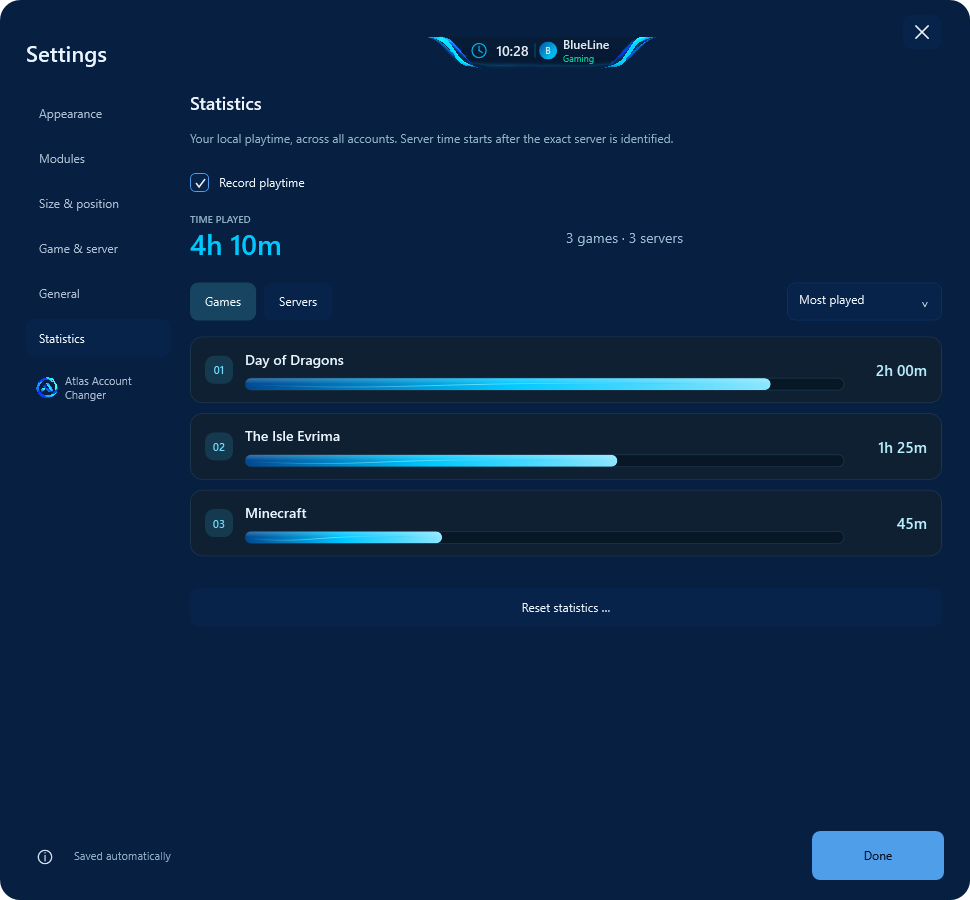
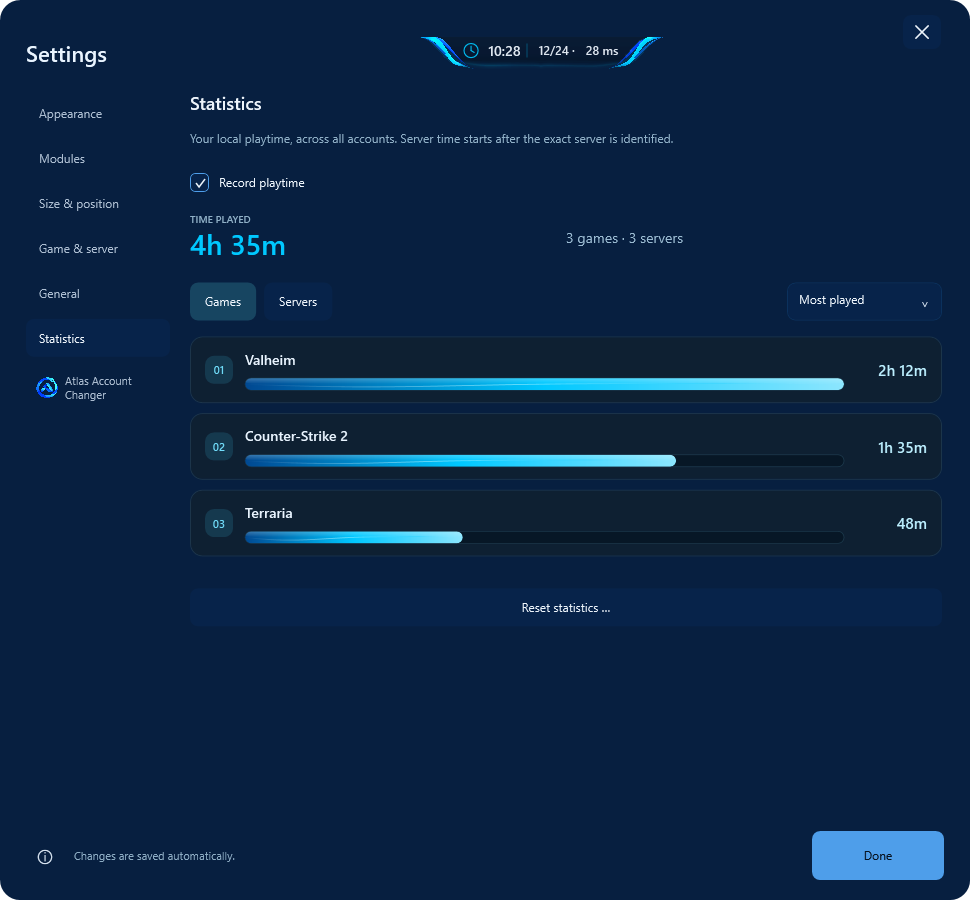
Refresh example games and introduce the ATLAS family with feedback links

diff --git a/README.md b/README.md
@@ -42,11 +42,11 @@ Module changes save automatically. Notch also handles official updates, keeping 
 **[Get ATLAS Notch →](https://bluelinede-shop.fourthwall.com/en-eur#top)**
 
 
-## Optional: Atlas Account Changer
+## Explore the ATLAS family
 
-Want to switch Steam accounts from your Notch? Add **[Atlas Account Changer →](https://github.com/BluelineDE/atlas-account-changer)**, a separate optional ATLAS app.
+There's more to discover in the ATLAS family. Meet **[ATLAS Account Switcher →](https://github.com/BluelineDE/atlas-account-changer)**, a companion app for organising your Steam accounts into groups and switching between them.
 
-With a compatible AAC Bridge v4, Notch shows your shared account groups, display names and avatars. Choose an account and see the switch progress beside it; AAC performs and confirms the switch. Login names and credentials stay with AAC. You can also use Notch independently.
+Use the apps on their own, or connect them with a compatible AAC Bridge v4 to bring your shared groups, account display names and avatars into Notch. Pick an account in the bar and follow its switching progress while Account Switcher performs and confirms the change. Login names and credentials stay with Account Switcher.
 
 ## A few practical details
 
@@ -55,3 +55,9 @@ Windows x64. Music controls depend on the media session exposed by your player. 
 Some automatic server detection uses the protected ATLAS network service, enabled with one Windows administrator approval. Settings and playtime are stored locally, encrypted for the current Windows user, with up to five encrypted backups.
 
 Images and animations show native Notch components with sample data.
+
+## Feedback & bug reports
+
+Found a problem, spotted a bug, or have an idea? **[Report a bug or share feedback →](https://github.com/BluelineDE/atlas-notch/issues/new)**
+
+Include your Notch version, what happened and how to reproduce it. Screenshots are welcome.
